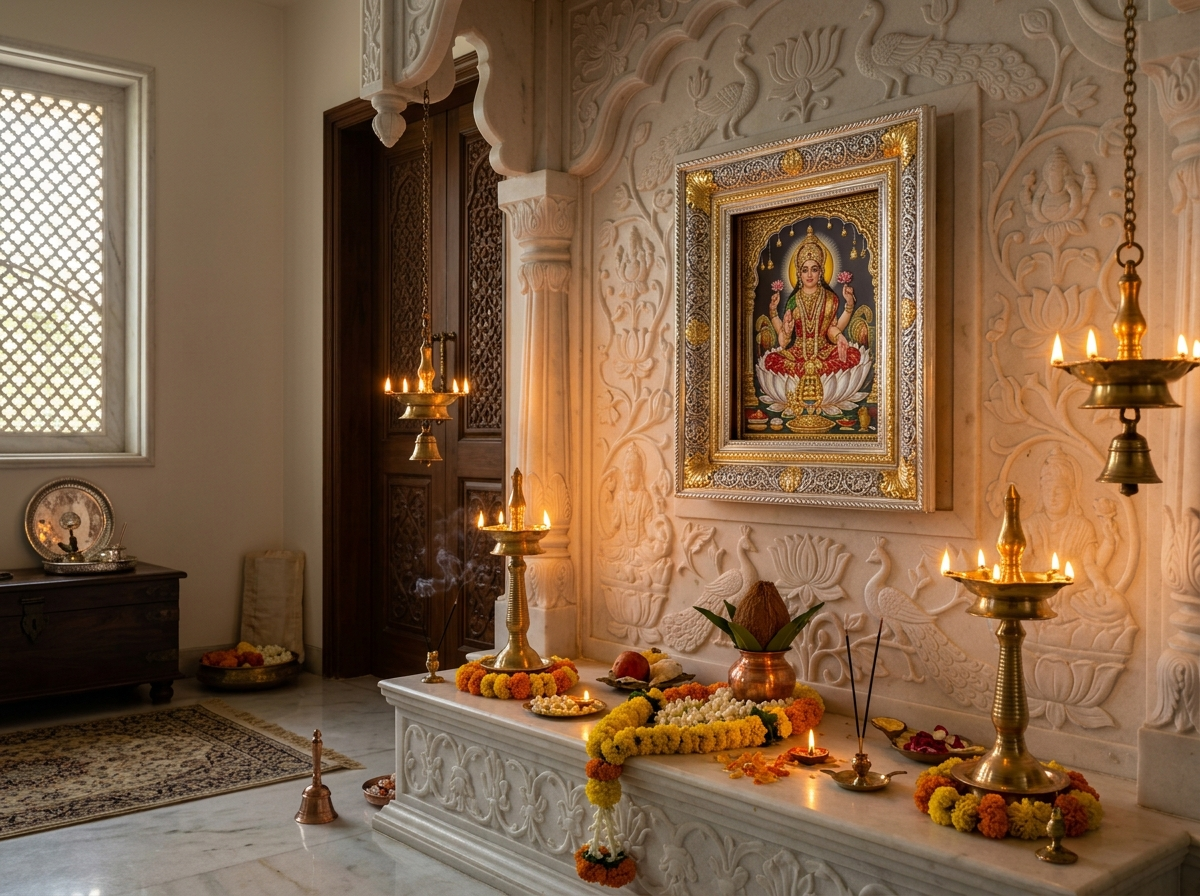
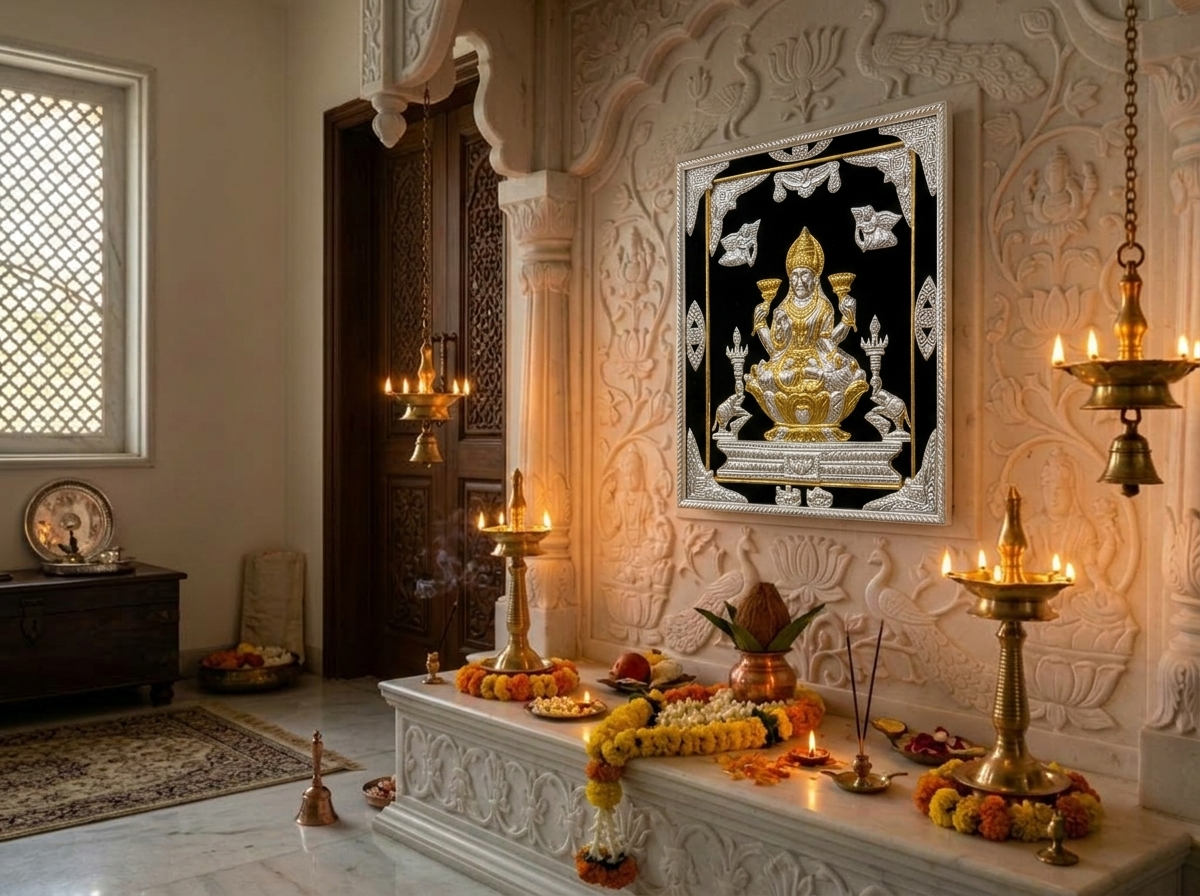
feat: Update home mandir sanctuary photo with authentic pure silver and 24K gold relief deity frame

diff --git a/product.html b/product.html
@@ -25,7 +25,7 @@
   <link rel="stylesheet" href="css/ui/utilities.css?v=2">
   <link rel="stylesheet" href="css/ui/wall-preview.css?v=3">
   <link rel="stylesheet" href="css/ui/enquiry-bot.css?v=1">
-  <link rel="stylesheet" href="css/ui/product-page.css?v=36">
+  <link rel="stylesheet" href="css/ui/product-page.css?v=37">
   <link rel="icon" href="/assets/Logo.png" type="image/png">
   <script type="application/ld+json" id="product-schema">
   {
@@ -378,7 +378,7 @@
           <!-- Left Visual Mandir Sanctuary Photo -->
           <div class="vastu-visual-column">
             <div class="vastu-photo-card">
-              <img src="assets/images/sacred_mandir_vastu.jpg" alt="Auspicious sacred home mandir with pure silver deity frame and glowing deepams" class="vastu-feature-img" loading="lazy">
+              <img src="assets/images/sacred_mandir_vastu.jpg?v=2" alt="Auspicious sacred home mandir with pure silver deity frame and glowing deepams" class="vastu-feature-img" loading="lazy">
               <div class="vastu-photo-badge">
                 <span class="vpb-sparkle">✦</span>
                 <span>SACRED MANDIR SANCTUARY SETTING</span>
@@ -596,7 +596,7 @@
 
 
   <div id="modal-root"></div>
-  <script type="module" src="js/ui/product-page.js?v=36"></script>
+  <script type="module" src="js/ui/product-page.js?v=37"></script>
 </body>
 </html>
 
